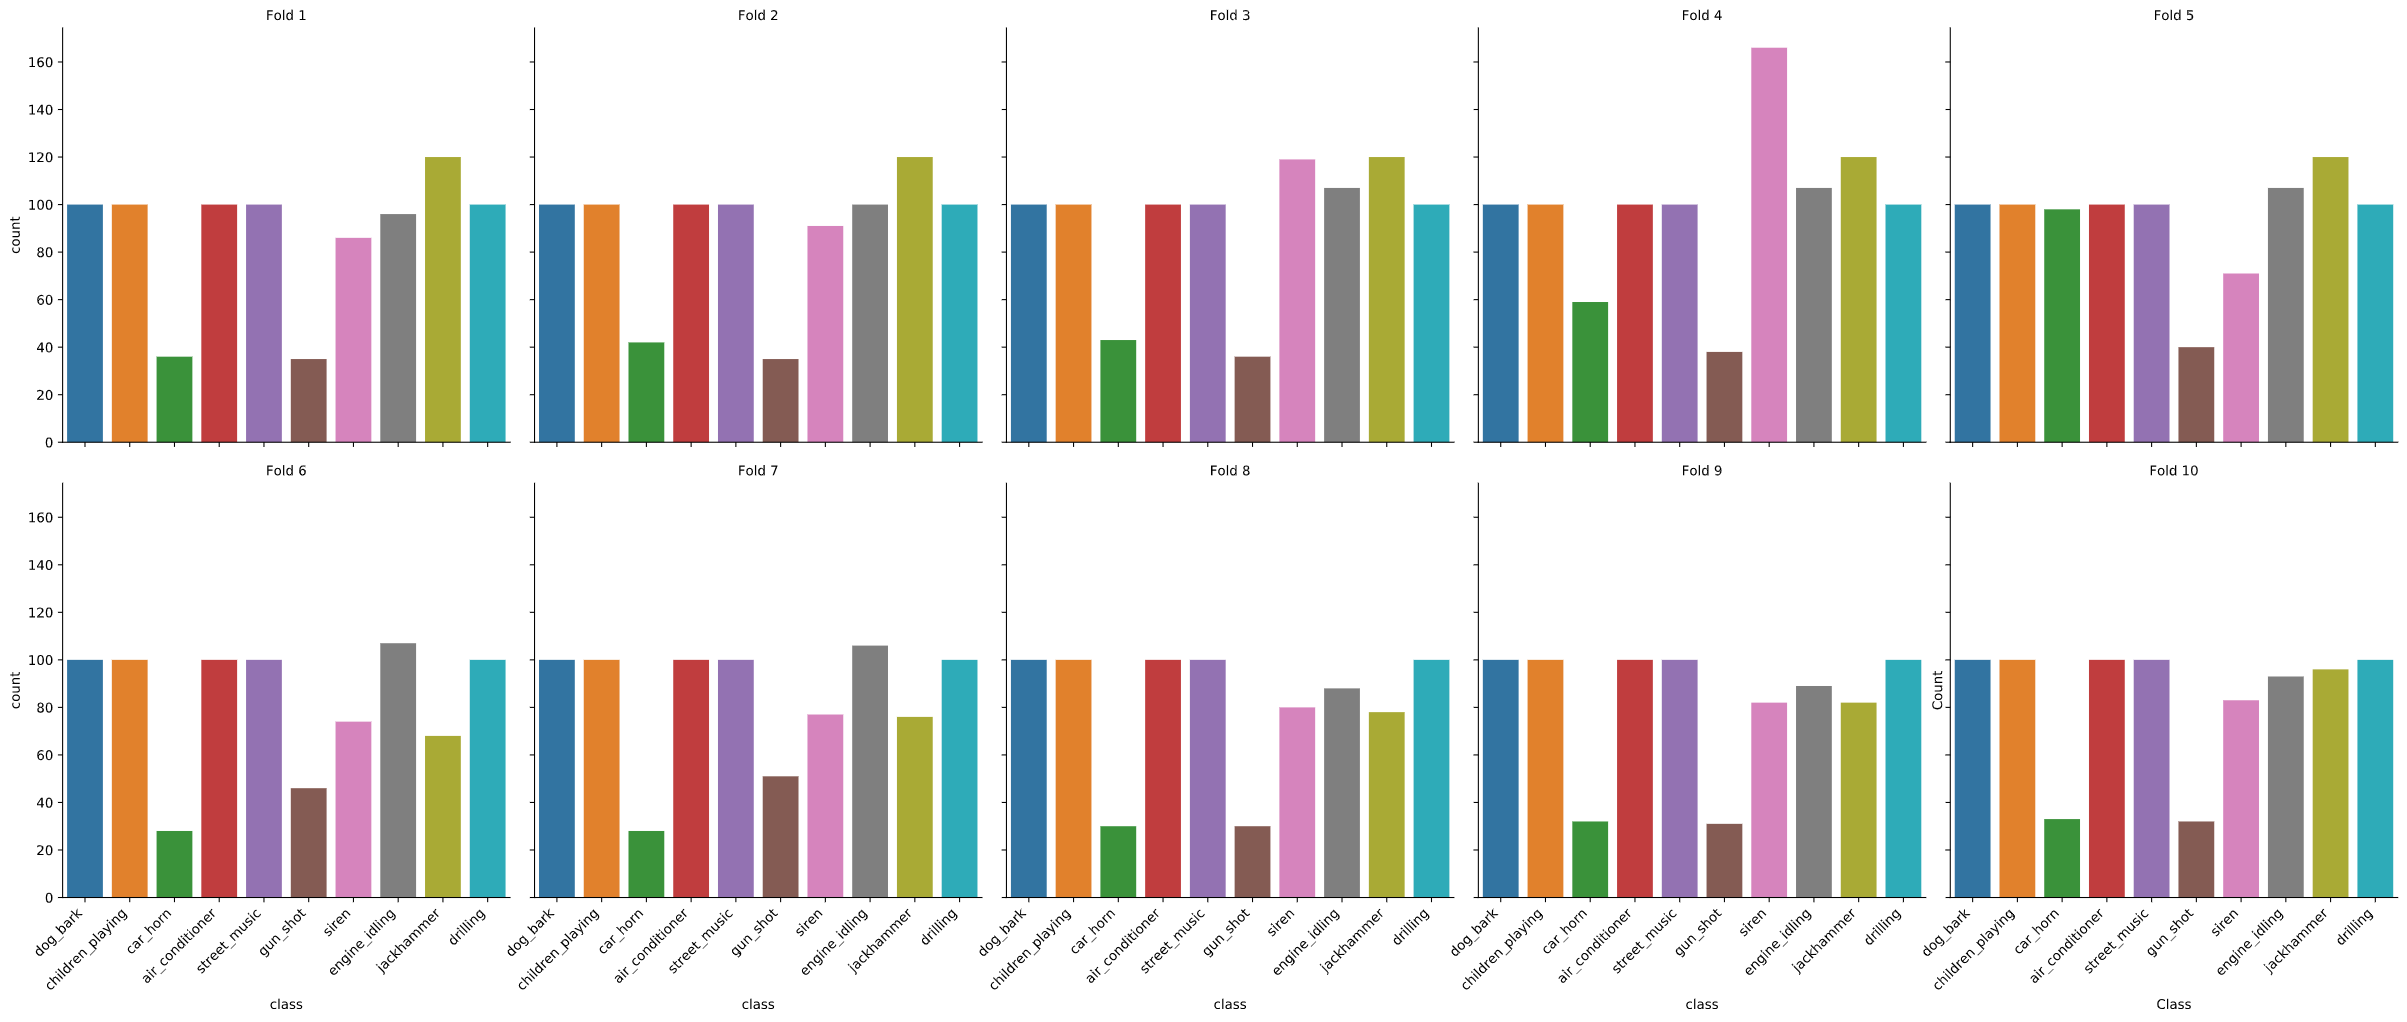
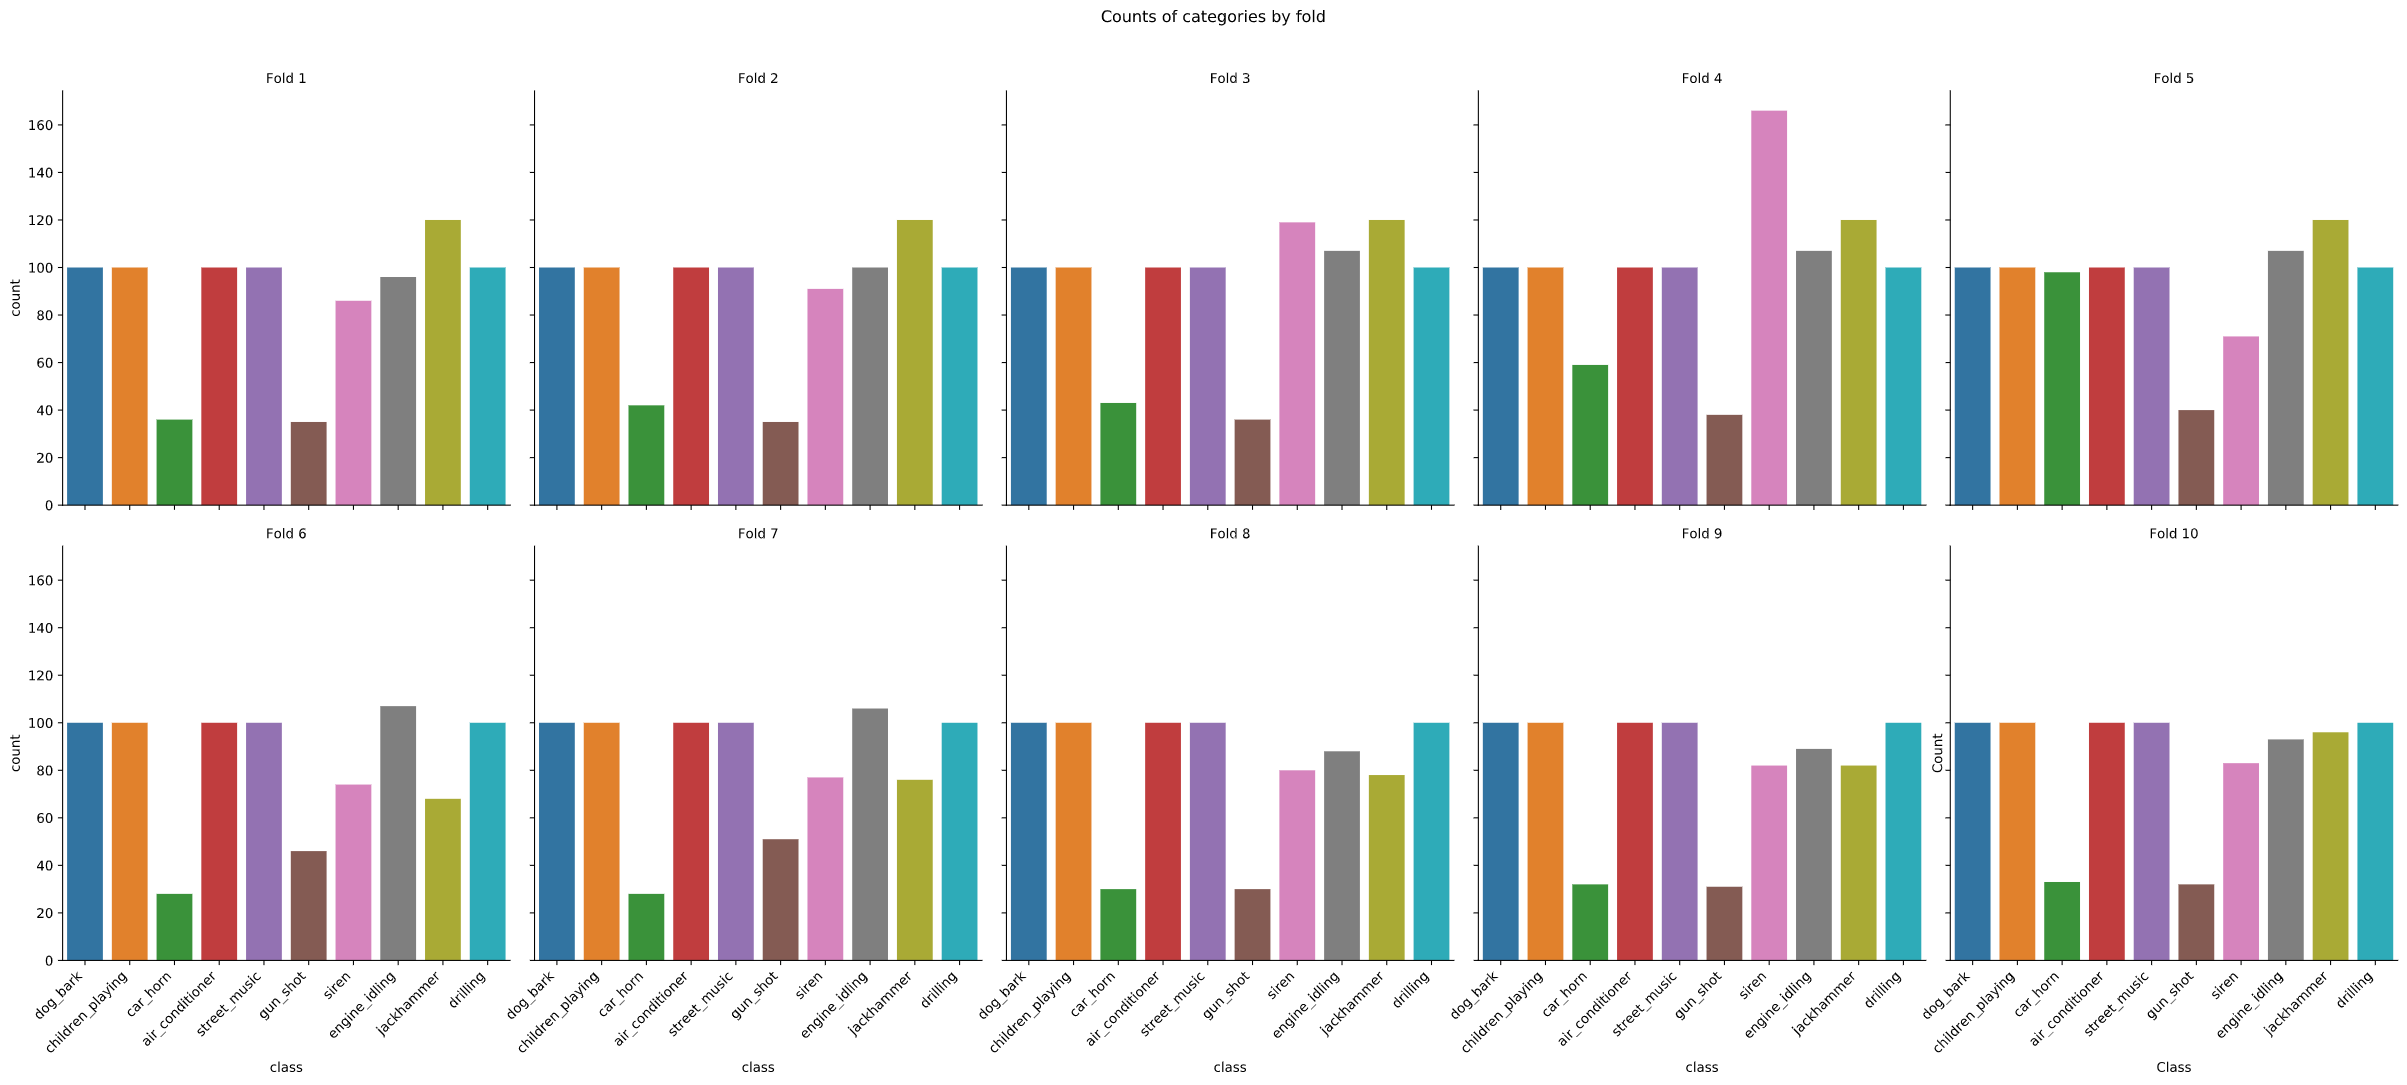
Completed data exploration. Co-authored-by: Patrick Osborne <pmr.osborne@gmail.com>

diff --git a/data-exploration.py b/data-exploration.py
@@ -4,14 +4,15 @@
 import matplotlib.pyplot as plt
 import seaborn as sns
 import librosa
-import pandas as pd
+%matplotlib inline
+plt.style.use('ggplot')
 
 # Import custom module containing useful functions
 import sonicboom
 
 # %% [markdown]
 # ## Load the audio files and combine metadata with the paths
-file_data = sonicboom.init_metadata('./data/UrbanSound8K/')
+file_data = sonicboom.init_data('./data/UrbanSound8K/')
 
 CLASSES = list(file_data['class'].unique())
 NUM_CLASSES = len(CLASSES)
@@ -23,7 +24,7 @@ file_data.rename(columns={0: "path"}, inplace=True)
 file_data
 
 # %% [markdown]
-# ## Overview of what the data looks like
+# ## Overview of distributions of the data
 
 # %% [markdown]
 # ### Plot the overall counts of the categories
@@ -51,23 +52,26 @@ facets.set_xticklabels(rotation=45, horizontalalignment='right')
 facets.set_titles('Fold {col_name}')
 plt.xlabel('Class')
 plt.ylabel('Count')
+plt.suptitle('Counts of categories by fold', y=1.05)
 plt.show()
 
 # %% [markdown]
 # ### See how Audio Length/Duration is distributed
 # file_data = file_data.groupby('class', as_index=False).apply(lambda x: x.sample(10))
-# NOTE: this sampling down code messes with librosa call for get_duration
 audio_file = []
-sampling_rate = []
+sample_rate = []
 duration = []
 
-audio_file, sampling_rate = sonicboom.load_audio(file_data['path'])
+for f in file_data['path']:
+    y, sr = sonicboom.load_audio(f)
+    audio_file.append(y)
+    sample_rate.append(sr)
 
 file_data['raw_features'] = audio_file
-file_data['sampling_rate'] = sampling_rate
+file_data['sample_rate'] = sample_rate
 file_data['duration'] = [
-    librosa.get_duration(file_data['raw_features'][i], 
-                         file_data['sampling_rate'][i])
+    librosa.get_duration(file_data['raw_features'].iloc[i], 
+                         file_data['sample_rate'].iloc[i])
     for i in range(file_data.shape[0])
 ]
 
@@ -93,3 +97,30 @@ plt.ylabel('Count')
 plt.show()
 
 # %%
+# ## Plot Waves and Spectrogram
+# ### Plot waves, one for each class
+from IPython.display import Audio
+plt.figure(figsize=(20,60), dpi=600)
+plt.tight_layout()
+for i in range(len(CLASSES)):
+    selection = file_data[file_data['class'] == CLASSES[i]][:1].reset_index()
+    plt.subplot(10,1,i+1)
+    librosa.display.waveplot(selection['raw_features'][0], 
+                             sr=selection['sample_rate'][0])
+    plt.title(selection['class'][0])
+plt.suptitle('Wave Plot for each class', y=0.895, fontsize=16)
+plt.show()
+# Audio(selection['raw_features'][0], rate=selection['sample_rate'][0])
+
+#%%
+# ### Plot spectrogram, one for each class
+plt.figure(figsize=(20,60))
+plt.tight_layout()
+for i in range(len(CLASSES)):
+    selection = file_data[file_data['class'] == CLASSES[i]][:1].reset_index()
+    plt.subplot(10,1,i+1)
+    plt.specgram(selection['raw_features'][0], 
+             Fs=selection['sample_rate'][0])
+    plt.title(selection['class'][0])
+plt.suptitle('Spectrogram for each class', y=0.895, fontsize=16)
+plt.show()

diff --git a/feature-extraction.py b/feature-extraction.py
@@ -23,9 +23,7 @@ import time
 
 # %% Read the metadata
 
-filedata = sonicboom.init_data('./.data/UrbanSound8K/')
-
-filedata.rename(columns={0: "path"}, inplace=True)
+filedata = sonicboom.init_data('./data/UrbanSound8K/')
 
 # %% Sample down
 
@@ -49,7 +47,6 @@ startTime = time.perf_counter()
 
 filedata['mfccs'] = Parallel(n_jobs=-1)(delayed(sonicboom.mfccsEngineering)(x) for x in filedata['path'])
 
-
 #non-parallel version
 #filedata['mfccs'] = [sonicboom.mfccsEngineering(x) for x in filedata['path']]
 
@@ -70,7 +67,6 @@ filedata.head()
 
 #take mean of transposed mfccs (for some reason?) - this is now done in SonicBoom
 #filedata['mfccs'] = [np.mean(x.T,axis=0) for x in filedata['mfccs']]
-
 
 # %% Initial model generation: all of em 
 from sklearn.linear_model import LogisticRegression
